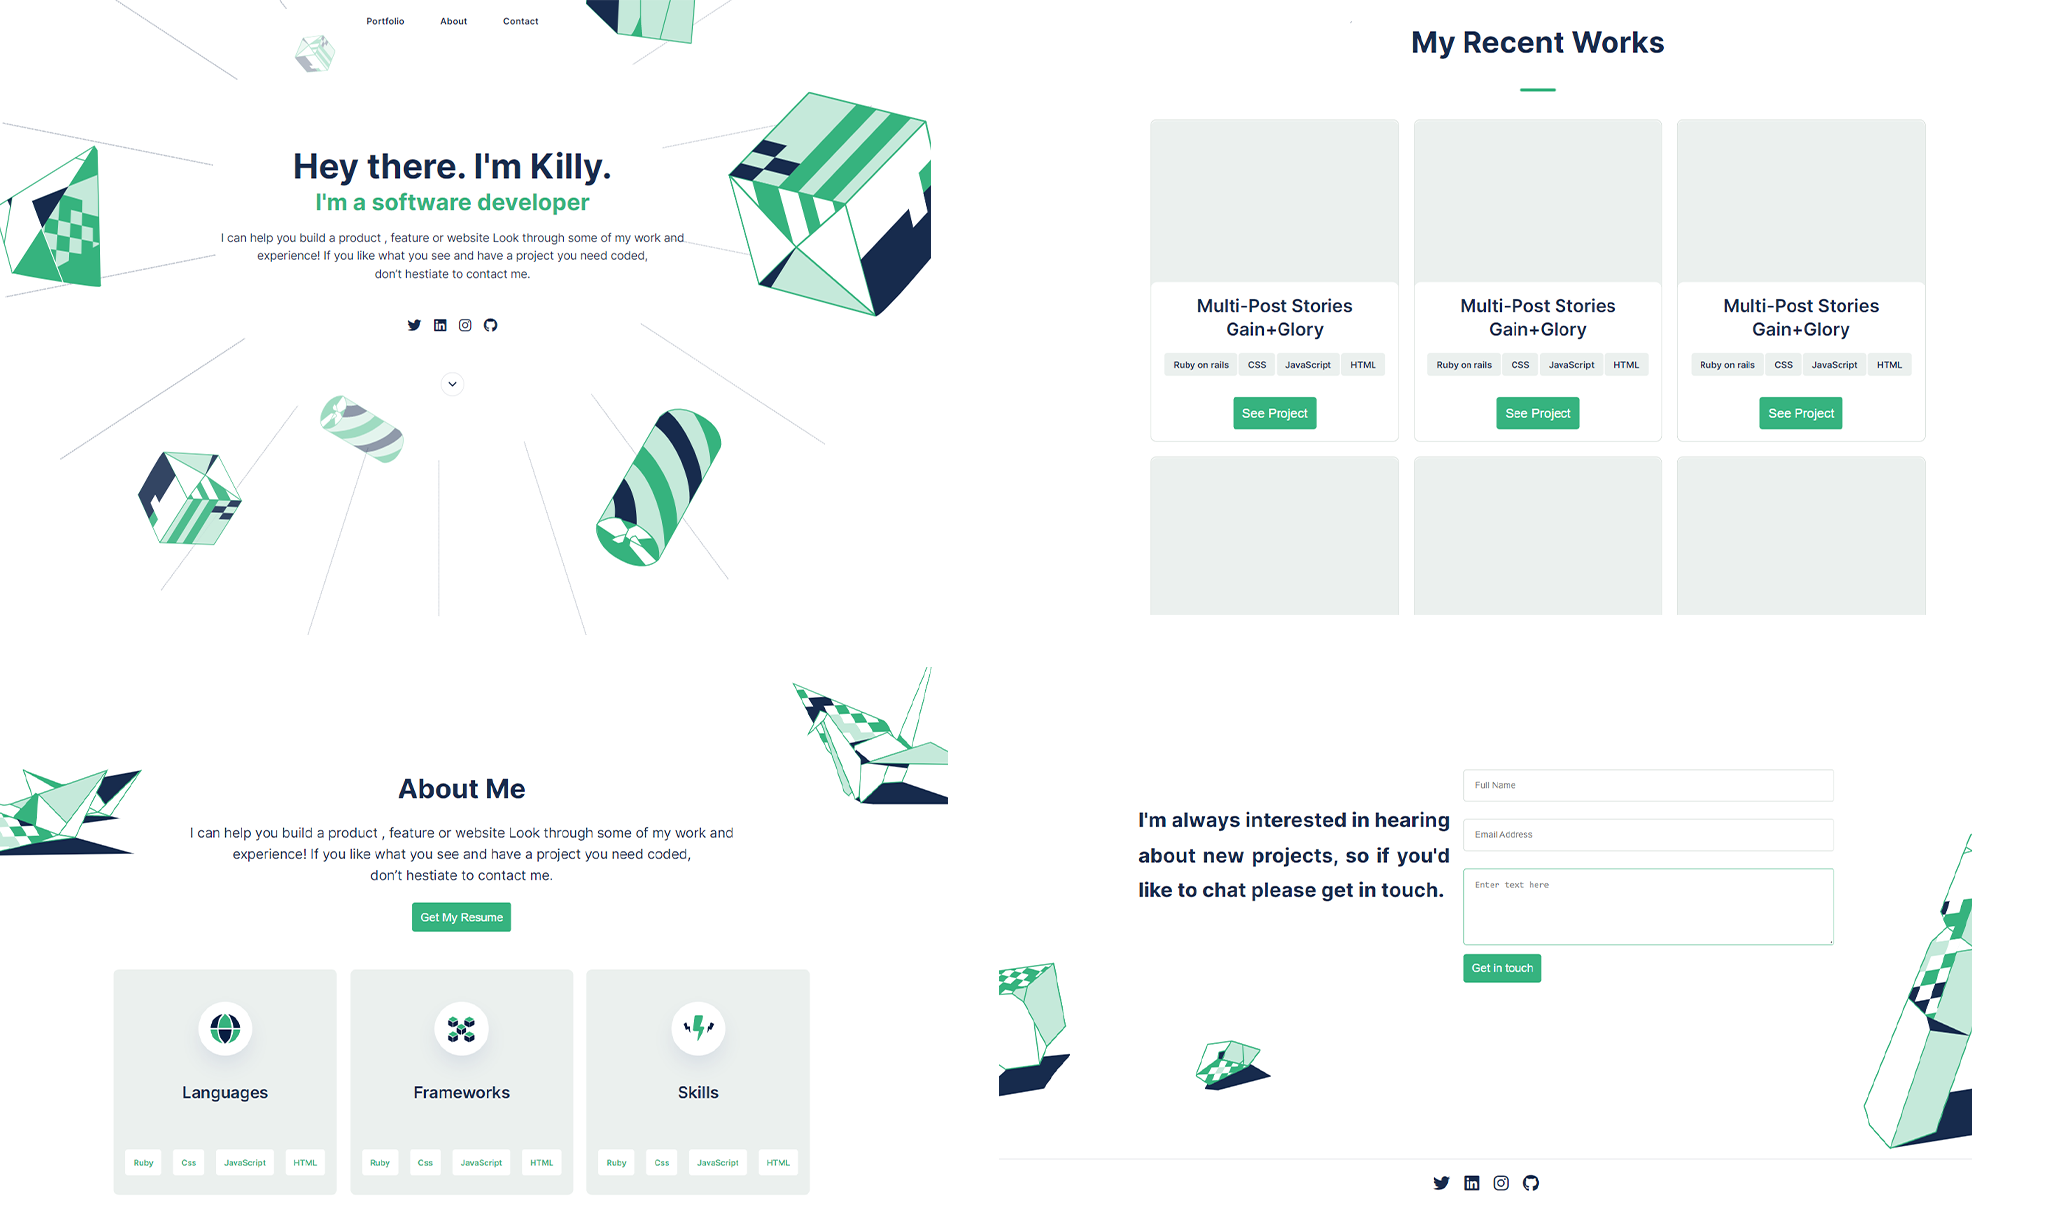
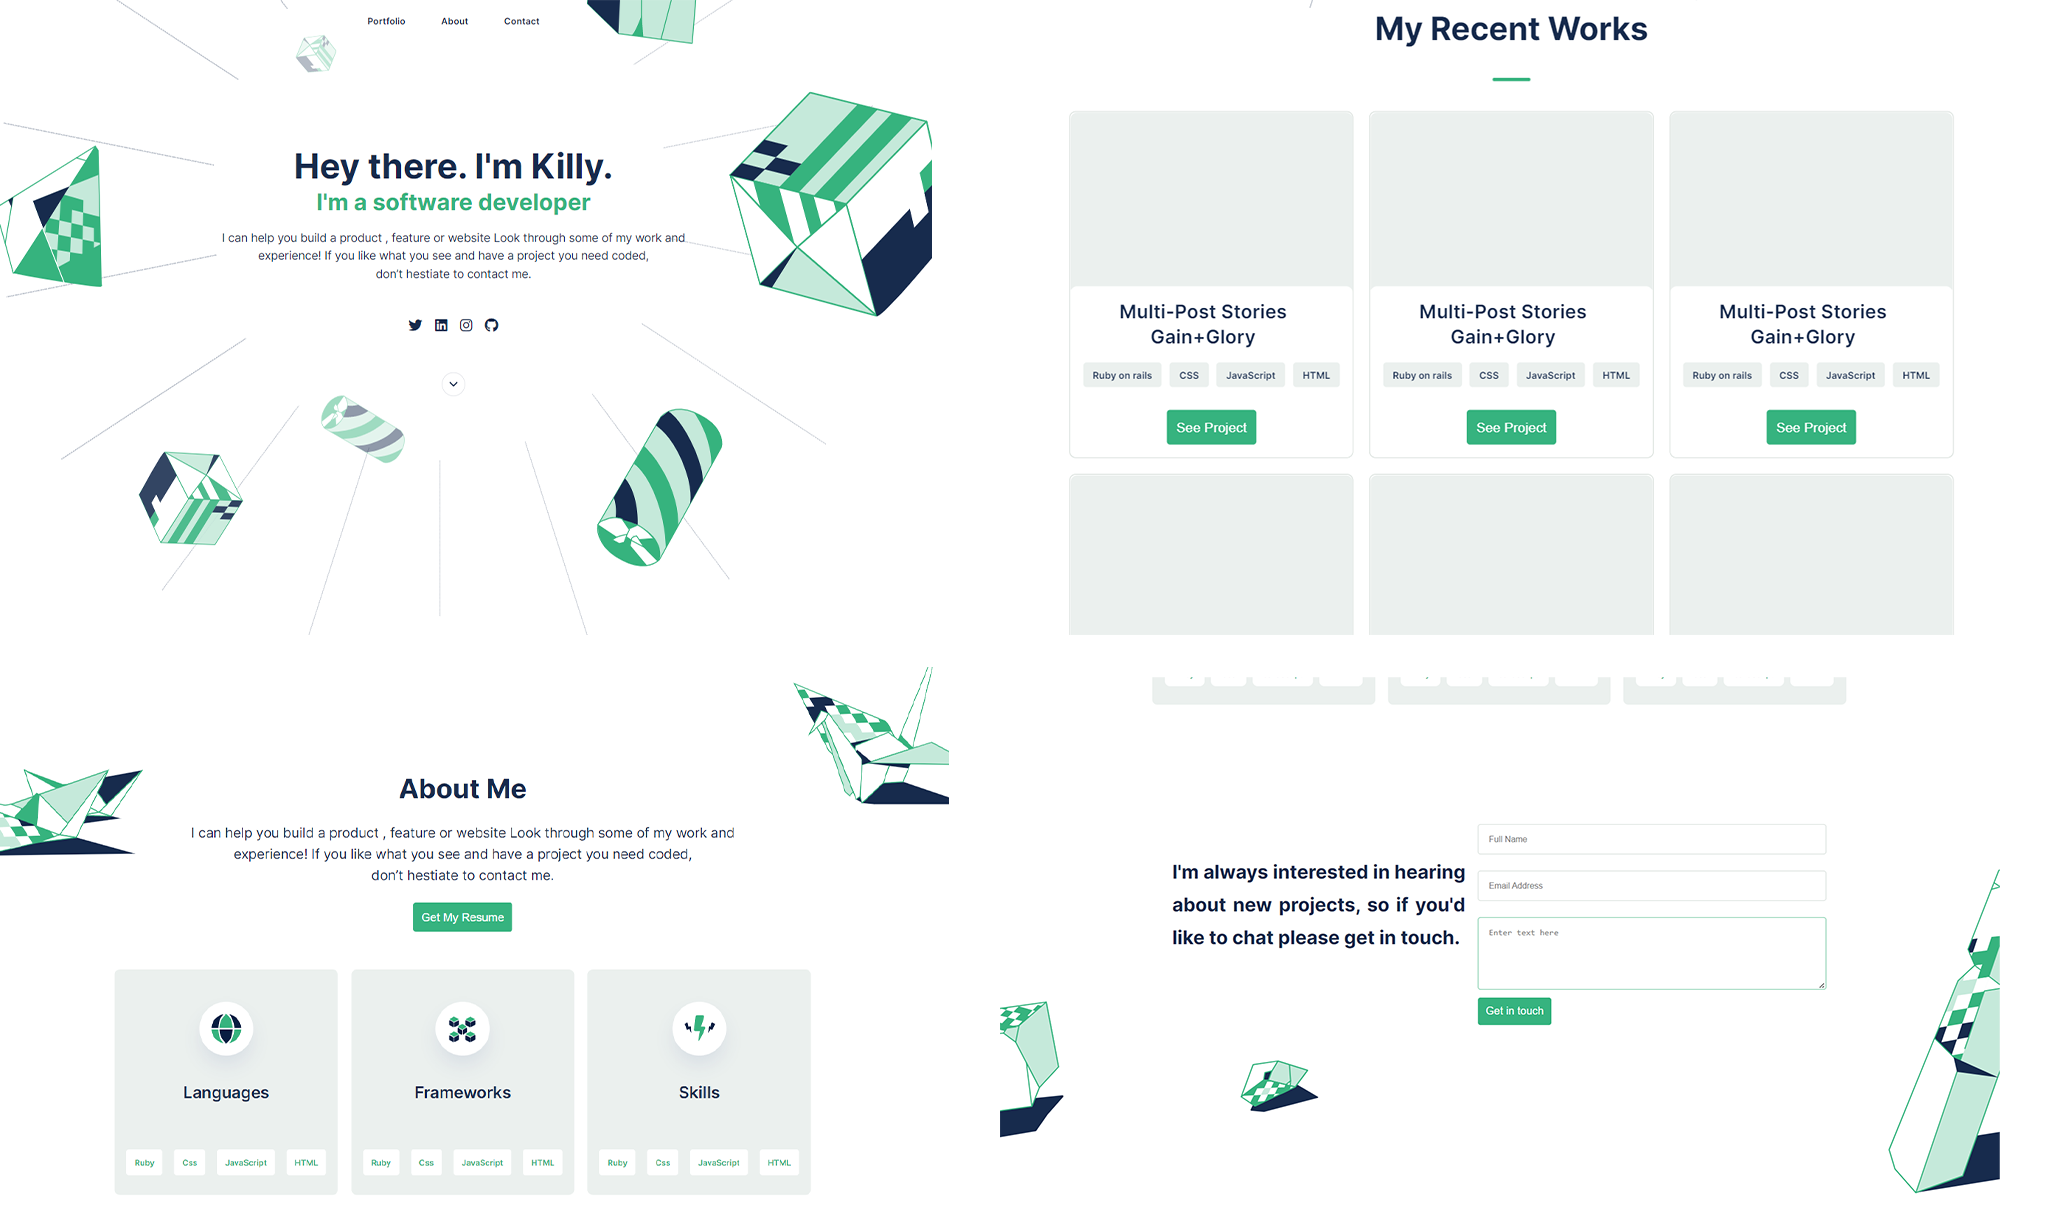
Updated gap between language badges in projects section, narrowed down gap between about-me and contact-me sections, Added an updated screenshot to showcase corrections

diff --git a/style/style.css b/style/style.css
@@ -23,8 +23,6 @@ header {
   justify-content: space-between;
   align-items: center;
   padding: 20px;
-
-  /* margin-top: 10px; */
 }
 
 .dark-blue {
@@ -62,8 +60,6 @@ header {
   display: flex;
   align-self: center;
   flex-direction: column;
-
-  /* margin: 58px 0; */
 }
 
 .heading {
@@ -140,10 +136,12 @@ header {
 }
 
 .flex-list {
-  display: flex;
-  justify-content: space-evenly;
+  display: grid;
+  grid-template-columns: repeat(4, auto);
+  grid-gap: 10px;
   list-style: none;
   align-items: center;
+  text-align: center;
   margin: 16px 0 29px 0;
 }
 
@@ -153,6 +151,7 @@ header {
   padding: 8px 12px;
   font-weight: 600;
   font-size: 12px;
+ 
 }
 
 .button {
@@ -203,7 +202,7 @@ header {
 
 .languages {
   min-height: 327px;
-  min-width: 331px;
+  min-width: 352px;
   background-color: #ebf0ee;
   display: flex;
   flex-direction: column;
@@ -221,17 +220,17 @@ header {
   font-weight: 600;
 }
 
-.languages ul {
+
+.languages .flex-list{
   margin-top: 70px;
+  padding: 0px 20px 0px;
 }
 
-.languages ul li {
+.languages .flex-list li{
   color: #36b37e;
   background: white;
-  border-radius: 4px;
+  border-radius: 8px;
   padding: 12px;
-  font-weight: 600;
-  font-size: 12px;
 }
 
 #forms-section {
@@ -359,15 +358,14 @@ footer {
 
   #forms-section {
     display: grid;
-    background-image: url(../resource/forms-section-bg.svg);
-    background-repeat: no-repeat;
-    height: 900px;
-    background-size: cover;
-    background-position: center;
     grid-template-columns: 463px 550px;
     justify-content: center;
     align-items: center;
     grid-gap: 20px;
+    background: url(../resource/Desktop\ -\ 4.svg) no-repeat center; 
+    padding-bottom: 280px;
+    padding-top: 100px;
+    background-size:cover;
   }
 
   #form button {
